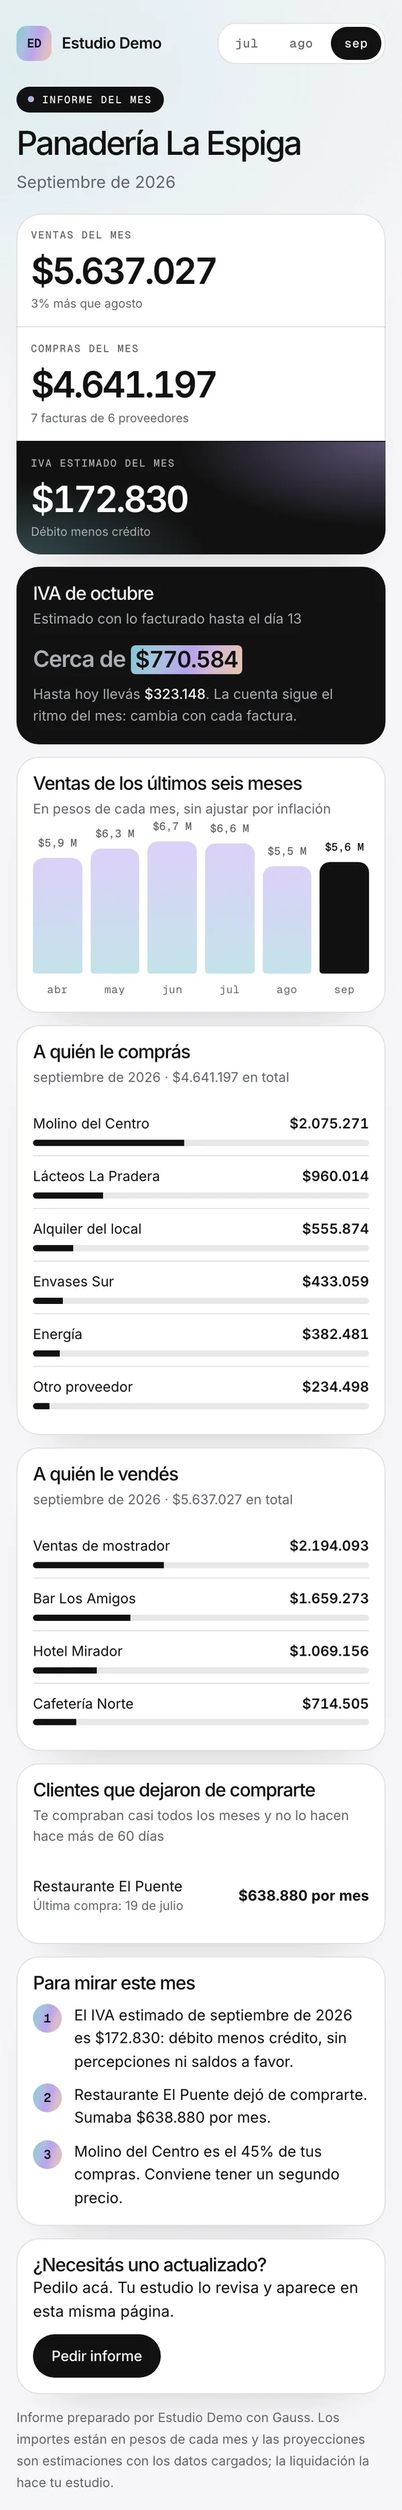
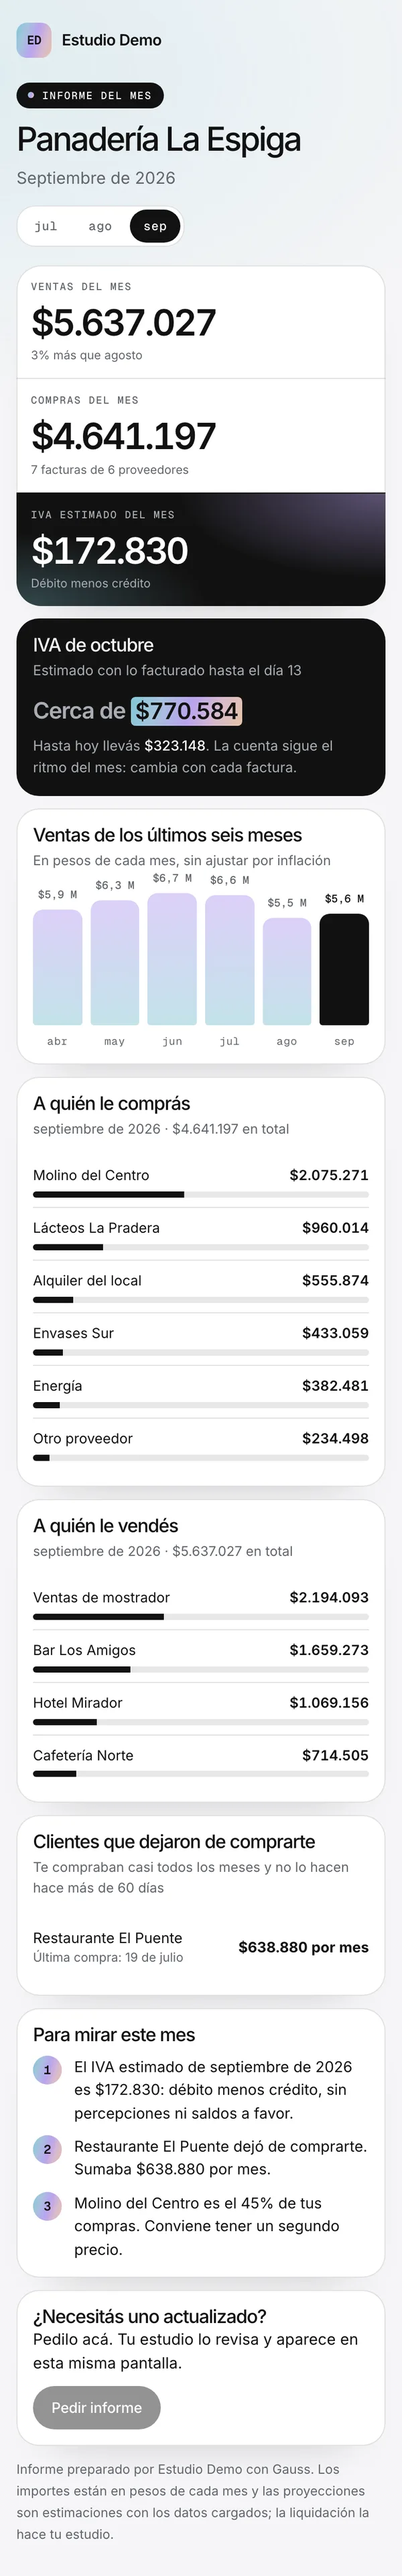
Add the clients' app and the firm's notices to the Gauss landing
The landing for accounting firms now shows the app each client of a firm
opens from their link (sign-in with a mail and a code, installable, notices
from the firm), with captures taken from the demo, and its copy follows the
sign-in that the app asks for since today.

Changed region(s): [[0.03, 0.0, 0.96, 0.9925], [0.81, 0.0, 0.96, 0.031]]

diff --git a/club/iman-unificado/experience/gauss-estudios.html b/club/iman-unificado/experience/gauss-estudios.html
@@ -158,6 +158,14 @@
 .r-wrap .sticker{position:absolute;left:50%;top:-12px;z-index:1;transform:translateX(-50%) rotate(-4deg)}
 
 /* The firm's panel: a capture of the demo's home, and what it holds */
+/* The clients' app: what the firm writes, and the phone that gets it hanging off its corner */
+.g-app{display:grid;grid-template-columns:minmax(0,1.08fr) minmax(0,1fr);align-items:center;gap:clamp(30px,6vw,90px)}
+.g-app h2{margin:18px 0 18px}
+.g-app .checks{margin:26px 0 30px}
+.g-app-vis{position:relative;padding:0 9% clamp(64px,8.4vw,116px) 0}
+.g-app-vis .sticker{position:absolute;left:18px;top:-11px;z-index:2}
+.g-app-vis .phone{position:absolute;right:0;bottom:0;z-index:1;width:min(36%,208px);padding:6px;border-radius:30px}
+.g-app-vis .phone-screen{border-radius:24px}
 .g-panel .g-head{max-width:760px;margin-bottom:clamp(24px,4vh,40px)}
 .g-shot{position:relative}
 .g-shot .sticker{position:absolute;right:22px;top:-11px;z-index:1}
@@ -241,7 +249,10 @@
   .up-drop span{display:none}
   .g-pitch{max-width:560px;margin:0 auto;padding:24px 0 8px}
   .g-strip{grid-template-columns:1fr;max-width:560px;margin:22px auto 0}
-  .g-split,.g-why,.g-rep{grid-template-columns:1fr}
+  .g-split,.g-why,.g-rep,.g-app{grid-template-columns:1fr}
+  .g-app-vis{order:2;max-width:560px;margin-top:34px;padding:0 min(7%,39px) min(34%,190px) 0}
+  .g-app-vis .sticker{top:-26px}
+  .g-app-vis .phone{width:42%}
   .g-split>header{position:static}
   .g-caps{grid-template-columns:repeat(2,minmax(0,1fr))}
   .g-feats{grid-template-columns:repeat(2,minmax(0,1fr))}
@@ -290,16 +301,16 @@
 <h1 id="hero-title"><span class="ln">Tu cartera,</span><span class="ln hl">al día.</span></h1>
 </div>
 
-<figure class="g-visual" data-g-demo aria-label="Ejemplo ilustrativo: un cliente sube sus papeles desde su link, Gauss los lee y los controla, avisa qué falta y deja el informe del mes listo para aprobar">
+<figure class="g-visual" data-g-demo aria-label="Ejemplo ilustrativo: un cliente sube sus papeles desde su app, Gauss los lee y los controla, avisa qué falta y deja el informe del mes listo para aprobar">
 <div class="phone">
 <div class="phone-screen"><div class="up">
 <div class="up-status" aria-hidden="true"><span>9:41</span><span class="up-sig"><i></i><i></i><i></i></span></div>
-<p class="up-bar" aria-hidden="true">app.gauss.iman.ar/subir</p>
+<p class="up-bar" aria-hidden="true">app.gauss.iman.ar/c</p>
 <div class="up-page" data-g-page>
 <p class="up-studio"><i aria-hidden="true">TE</i>Tu estudio</p>
 <p class="up-kick">Tus papeles</p>
 <p class="up-title">Hola, Luis.</p>
-<p class="up-notice" data-g-notice><b>Mail de tu estudio</b><span>Ya está tu informe de septiembre.</span></p>
+<p class="up-notice" data-g-notice><b>Aviso de tu estudio</b><span>Ya está tu informe de septiembre.</span></p>
 <p class="up-drop" data-g-drop><b>Sacar foto o elegir archivos</b><span>Llegan directo a tu estudio.</span></p>
 <div class="up-card">
 <p class="up-card-title" data-g-count>Llegaron 3 archivos</p>
@@ -328,7 +339,7 @@
 </div>
 
 <div class="g-pitch" data-pill-after>
-<p class="lead">Subís los papeles de tus clientes, o los suben ellos desde un link. Gauss los lee, los ordena y te avisa qué falta. Con eso arma el informe del mes de cada uno, que sale cuando lo aprobás.</p>
+<p class="lead">Subís los papeles de tus clientes, o los suben ellos desde su celular. Gauss los lee, los ordena y te avisa qué falta. Con eso arma el informe del mes de cada uno, que sale cuando lo aprobás.</p>
 <div class="actions">
 <a class="btn btn-ink" href="https://app.gauss.iman.ar/demo">Probar la demo <span class="arr" aria-hidden="true"><svg viewBox="0 0 16 16"><path d="M3 8h10M9 4l4 4-4 4" fill="none" stroke="currentColor" stroke-width="1.8" stroke-linecap="round" stroke-linejoin="round"/></svg></span></a>
 <a class="link" href="https://app.gauss.iman.ar/">Crear mi cuenta gratis ↗</a>
@@ -351,7 +362,7 @@
 <h2 id="sistema-title">Tu sistema queda como está. <span class="hl">Gauss trabaja al lado.</span></h2>
 <p class="lead">Los sistemas de estudio liquidan impuestos. Lo que pasa antes sigue siendo a mano: pedir los papeles, bajarlos del chat, cargarlos y reclamar lo que falta. Gauss se ocupa de esa parte.</p>
 <ul class="g-points">
-<li><b>Tu cliente lo hace desde el celular.</b><span>Abre su link, saca la foto o elige el PDF. Sin contraseñas ni nada que aprender.</span></li>
+<li><b>Tu cliente lo hace desde el celular.</b><span>Abre su link, entra con su mail y saca la foto o elige el PDF. Sin contraseñas ni nada que aprender.</span></li>
 <li><b>Vos no cambiás de sistema.</b><span>Seguís liquidando donde liquidás. Gauss te deja la planilla de cada cliente y cada mes, lista para abrir en Excel.</span></li>
 <li><b>El reclamo ya está escrito.</b><span>Gauss sabe qué papeles manda cada cliente por mes y te deja listo el mensaje para pedir lo que falta, con su link.</span></li>
 </ul>
@@ -383,9 +394,9 @@
 <div class="vig" aria-hidden="true"><p class="vig-line"><b>Harinas del Sur</b><small>$184.300</small></p><p class="vig-line"><b>Lácteos La Paz</b><small>$96.450</small></p><p class="vig-line"><b>Envases Río</b><small>$41.200</small></p></div></li>
 <li class="rv"><div><h3>Controla</h3><p>Cruza cada factura con los archivos de ARCA de ese mes, revisa que el extracto cierre con el saldo y suma impuestos, comisiones y retenciones por concepto.</p></div>
 <div class="vig" aria-hidden="true"><p class="vig-line best"><b>Extracto</b><small>cierra con el saldo</small></p><p class="vig-line late"><b>Factura 1182</b><small>no figura en ARCA</small></p></div></li>
-<li class="rv"><div><h3>Te avisa qué falta</h3><p>Te deja el mensaje redactado para cada cliente, con su link de carga. Lo mandás vos: por mail desde Gauss o desde tu WhatsApp.</p></div>
+<li class="rv"><div><h3>Te avisa qué falta</h3><p>Te deja el mensaje redactado para cada cliente, con su link. Lo mandás vos desde Gauss, y le llega por mail y como aviso en su app, o lo mandás desde tu WhatsApp.</p></div>
 <div class="vig" aria-hidden="true"><div class="bubble out">Luis, me falta el resumen de la tarjeta de septiembre.</div></div></li>
-<li class="rv"><div><h3>Aprobás</h3><p>El informe del mes queda listo. Lo revisás y lo aprobás: tu cliente ya lo ve en su página. Si elegís enviarlo, le llega el mail con el link, y si responde, te llega a vos.</p></div>
+<li class="rv"><div><h3>Aprobás</h3><p>El informe del mes queda listo. Lo revisás y lo aprobás: tu cliente ya lo ve en su app. Si elegís enviarlo, le llega el mail con el link, y si responde, te llega a vos.</p></div>
 <div class="vig" aria-hidden="true"><p class="vig-line"><b>Informe</b><small>septiembre · Don Luis</small></p><span class="vig-done">Enviado por mail</span></div></li>
 </ol>
 </div>
@@ -395,8 +406,8 @@
 <div class="wrap g-rep">
 <div class="rv">
 <p class="kick">El informe</p>
-<h2 id="informe-title">Lo aprobás y tu cliente <span class="hl">lo ve en una web.</span></h2>
-<p class="lead">Cada cliente tiene su página con el nombre de tu estudio. Entra desde el celular y ve los informes que aprobaste, mes por mes; cuando le mandás uno, le llega el link por mail. Si necesita uno actualizado, lo pide ahí y te llega el pedido.</p>
+<h2 id="informe-title">Lo aprobás y tu cliente <span class="hl">lo ve en su celular.</span></h2>
+<p class="lead">Cada cliente entra a su app, con el nombre de tu estudio, y ve los informes que aprobaste, mes por mes. Cuando le mandás uno, le llega el mail con el link. Si necesita uno actualizado, lo pide ahí y te llega el pedido.</p>
 <ul class="checks">
 <li>Ventas y compras del mes, y las ventas de los últimos seis meses.</li>
 <li>El IVA estimado del mes en curso, si ya cargaste sus comprobantes.</li>
@@ -408,7 +419,33 @@
 </div>
 <div class="r-wrap rv">
 <span class="sticker">captura de la demo · datos inventados</span>
-<div class="phone"><div class="phone-screen"><img class="page-scroll slow" style="--end:-66.13%" src="/assets/experience/shots/gauss-informe-mobile.webp" width="600" height="3740" alt="El informe de septiembre de un cliente de la demo, visto en el celular: ventas, compras e IVA estimado del mes, el IVA del mes en curso, las ventas de los últimos seis meses, a quién le compra y a quién le vende, un cliente que dejó de comprarle y el botón para pedir un informe actualizado" loading="lazy"></div></div>
+<div class="phone"><div class="phone-screen"><img class="page-scroll slow" style="--end:-67%" src="/assets/experience/shots/gauss-informe-mobile.webp" width="600" height="3838" alt="El informe de septiembre de un cliente de la demo, visto en el celular: ventas, compras e IVA estimado del mes, el IVA del mes en curso, las ventas de los últimos seis meses, a quién le compra y a quién le vende, un cliente que dejó de comprarle y el botón para pedir un informe actualizado" loading="lazy"></div></div>
+</div>
+</div>
+</section>
+
+<section class="sec" id="app" aria-labelledby="app-title">
+<div class="wrap g-app">
+<div class="g-app-vis rv">
+<span class="sticker">capturas de la demo · datos inventados</span>
+<div class="browser">
+<div class="browser-bar" aria-hidden="true"><i></i><i></i><i></i><span>app.gauss.iman.ar/demo/avisos</span></div>
+<div class="browser-screen"><img class="page-scroll slow" style="--end:-29.52%" src="/assets/experience/shots/gauss-avisos-desktop.webp" width="1800" height="1660" alt="La sección Avisos de Gauss en la demo: 9 clientes reciben los avisos en la app y 5 por mail, el formulario para escribir un aviso nuevo y los avisos ya enviados, con cuántos clientes vieron cada uno" loading="lazy"></div>
+</div>
+<div class="phone"><div class="phone-screen"><img src="/assets/experience/shots/gauss-app-mobile.webp" width="600" height="1266" alt="La app de un cliente de la demo en el celular: el nombre del estudio, un aviso nuevo sobre el cierre de septiembre, el botón para sacar una foto o elegir archivos, los papeles que le pide el estudio y las secciones Papeles, Informes y Avisos" loading="lazy"></div></div>
+</div>
+<div class="rv">
+<p class="kick">La app de tus clientes</p>
+<h2 id="app-title">Un aviso tuyo, <span class="hl">en su celular.</span></h2>
+<p class="lead">El link que le mandás a cada cliente abre una app con el nombre de tu estudio. Tu cliente entra con su mail, sube sus papeles, ve sus informes y recibe tus avisos. Si quiere, la instala en la pantalla del celular desde el navegador, sin pasar por ninguna tienda.</p>
+<ul class="checks">
+<li>Entra con su mail y un código, sin contraseña. Ves quién entró y le quitás el acceso cuando quieras.</li>
+<li>Con el mail que le cargaste ve todo. Con otro mail solo sube papeles, hasta que lo habilitás.</li>
+<li>Escribís el aviso una vez y elegís a quién: a toda la cartera o a algunos clientes.</li>
+<li>Al que activó los avisos le llega la notificación al celular; al que no, un mail. Antes de mandarlo ves a quién no hay cómo avisarle, y después quién lo vio en su app.</li>
+<li>Los pedidos de papeles, los informes y los recordatorios de honorarios que salen de Gauss también le aparecen ahí.</li>
+</ul>
+<div class="actions"><a class="btn btn-ink" href="https://app.gauss.iman.ar/demo/avisos">Verlo en la demo <span class="arr" aria-hidden="true"><svg viewBox="0 0 16 16"><path d="M3 8h10M9 4l4 4-4 4" fill="none" stroke="currentColor" stroke-width="1.8" stroke-linecap="round" stroke-linejoin="round"/></svg></span></a></div>
 </div>
 </div>
 </section>
@@ -446,7 +483,7 @@
 </header>
 <ul class="g-caps rv">
 <li><b>No presenta nada.</b><span>No liquida ni presenta declaraciones. Eso sigue en tu sistema y con tu firma.</span></li>
-<li><b>No manda nada por su cuenta.</b><span>Los informes salen cuando los aprobás y los reclamos cuando los mandás. El recordatorio automático de honorarios viene apagado.</span></li>
+<li><b>No manda nada por su cuenta.</b><span>Los informes salen cuando los aprobás, y los reclamos y los avisos cuando los mandás. El recordatorio automático de honorarios viene apagado.</span></li>
 <li><b>No entra a tu WhatsApp.</b><span>No se conecta a tu teléfono ni lee tus chats. Trabaja con lo que subís vos o suben tus clientes.</span></li>
 <li><b>No pide tu clave fiscal.</b><span>Trabaja con los archivos de comprobantes que ya bajás de ARCA.</span></li>
 <li><b>Te muestra lo dudoso.</b><span>Lo que no se llega a leer o no cierra queda para revisar. Las facturas las corregís a mano; un extracto lo volvés a leer o lo das por bueno.</span></li>
@@ -466,7 +503,7 @@
 <ul class="g-needs">
 <li><div><b>Tu lista de clientes</b><span>La pegás desde tu Excel: nombre, CUIT, tipo y mail. Después marcás qué papeles manda cada uno por mes.</span></div></li>
 <li><div><b>Los comprobantes de ARCA</b><span>Los archivos de emitidos y recibidos de Mis Comprobantes, tal como los bajás. De ahí sale la base de cada informe.</span></div></li>
-<li><div><b>El link de cada cliente</b><span>Se lo mandás una vez. Desde ahí sube sus papeles todos los meses.</span></div></li>
+<li><div><b>El link de cada cliente</b><span>Se lo mandás una vez. Entra con su mail y desde ahí sube sus papeles todos los meses.</span></div></li>
 </ul>
 <div class="g-where">
 <p><b>Dónde rinde primero:</b> los clientes que mandan todo por chat, tarde y de a pedazos.</p>
@@ -484,12 +521,13 @@
 </header>
 <div class="g-faq rv">
 <details><summary>¿Reemplaza mi sistema contable?</summary><p>No. Seguís liquidando donde liquidás hoy. Gauss se ocupa de lo anterior: recibir, leer, ordenar y controlar los papeles, y te deja la planilla de cada cliente y cada mes para abrir en Excel.</p></details>
-<details><summary>¿Mis clientes tienen que instalar algo?</summary><p>No. Abren su link desde el celular y suben la foto o el PDF. El informe lo ven en una página web.</p></details>
+<details><summary>¿Mis clientes tienen que instalar algo?</summary><p>No hace falta. Abren su link desde el celular, entran con su mail y suben la foto o el PDF; ahí mismo ven sus informes. Si quieren, instalan la app desde el navegador y activan los avisos para que les lleguen al celular. En iPhone, los avisos al celular solo llegan con la app instalada. Al que no los activa, tus avisos le llegan por mail.</p></details>
+<details><summary>¿Cómo le llegan mis avisos a un cliente?</summary><p>Si activó los avisos en su celular, cada aviso le llega ahí como notificación; si en un día no lo vio en la app, Gauss le manda ese mismo aviso por mail. Si no los activó, le llega al mail que tenés cargado para ese cliente. En el texto de un aviso no se pueden poner links: tu cliente abre lo que necesita desde la app. Desde cada mail puede pedir que no le lleguen más por esa vía.</p></details>
 <details><summary>¿Qué archivos lee?</summary><p>Los de Mis Comprobantes de ARCA (CSV, Excel o ZIP), fotos y PDF de facturas y tickets, y extractos de banco y resúmenes de tarjeta. Lo que no se llega a leer queda marcado para que lo mires.</p></details>
 <details><summary>¿Necesita mi clave fiscal?</summary><p>No. Gauss trabaja con los archivos de comprobantes que ya bajás de ARCA.</p></details>
-<details><summary>¿Puede mandarle algo a un cliente sin que yo lo vea?</summary><p>No. Los informes salen cuando los aprobás y los reclamos de papeles cuando los mandás. El recordatorio automático de honorarios viene apagado: lo prendés vos si lo querés.</p></details>
+<details><summary>¿Puede mandarle algo a un cliente sin que yo lo vea?</summary><p>No. Los informes salen cuando los aprobás, y los reclamos de papeles y los avisos cuando los mandás. El recordatorio automático de honorarios viene apagado: lo prendés vos si lo querés.</p></details>
 <details><summary>¿Se conecta con mi WhatsApp?</summary><p>No. Gauss no entra a tu teléfono ni lee tus chats. Si querés reclamar un papel por WhatsApp, te deja el mensaje escrito y lo mandás vos, desde tu número.</p></details>
-<details><summary>¿Qué pasa con el secreto profesional?</summary><p>Cada estudio ve solo lo suyo y los datos se usan únicamente para armar tus fichas e informes. Las fotos y los PDF se leen con un servicio de inteligencia artificial: está detallado en la <a class="link" href="https://app.gauss.iman.ar/privacidad">página de privacidad</a>. Si el link de un cliente se filtra, generás uno nuevo y el anterior deja de andar.</p></details>
+<details><summary>¿Qué pasa con el secreto profesional?</summary><p>Cada estudio ve solo lo suyo y los datos se usan únicamente para armar tus fichas e informes. Las fotos y los PDF se leen con un servicio de inteligencia artificial: está detallado en la <a class="link" href="https://app.gauss.iman.ar/privacidad">página de privacidad</a>. Para entrar con el link de un cliente hay que poner un mail y el código que llega ahí, y vos ves quién entró. Solo quien entra con el mail que cargaste para ese cliente ve sus informes y tus avisos; cualquier otro solo puede subir papeles, hasta que lo habilites. Le quitás el acceso a quien quieras y, si el link se filtró, generás uno nuevo.</p></details>
 <details><summary>¿Qué vencimientos muestra?</summary><p>IVA y monotributo de cada cliente, con el calendario general de ARCA y los feriados nacionales. Para el IVA hace falta el CUIT cargado. No contempla prórrogas ni días no laborables, y Gauss no presenta ni paga nada: marcás lo que ya hiciste.</p></details>
 <details><summary>¿Puede entrar mi equipo?</summary><p>Sí. Sumás a cada persona con su mail y entra con el código que le llega ahí, sin contraseña.</p></details>
 <details><summary>¿Puedo probarlo sin registrarme?</summary><p>Sí. La <a class="link" href="https://app.gauss.iman.ar/demo">demo</a> abre un estudio de ejemplo con 14 clientes y datos inventados. Tocás lo que quieras: es una copia solo tuya y se borra sola. Ahí no se leen fotos ni PDF nuevos y no sale ningún mail: para eso está tu cuenta.</p></details>
@@ -523,7 +561,7 @@
   var reduce=window.matchMedia('(prefers-reduced-motion: reduce)').matches;
 
   /* Demo player: the static markup is the finished month; with motion it is replayed step by step,
-     the client's files coming in from their link while the month's file fills in on the board. */
+     the client's files coming in from their app while the month's file fills in on the board. */
   var demo=document.querySelector('[data-g-demo]');
   if(!demo||reduce)return;
   var page=demo.querySelector('[data-g-page]'),files=[].slice.call(demo.querySelectorAll('.up-file'));
@@ -543,7 +581,7 @@
     var c=r.querySelector('[data-chip]');c.textContent=o.chip;c.className='g-chip'+(o.chipCls?' '+o.chipCls:'');
   };
   var status=function(text,done){footText.textContent=text;foot.classList.toggle('is-done',!!done)};
-  /* A mail from the firm shows up on the client's phone. */
+  /* What the firm sends shows up in the client's app as a notice. */
   var say=function(text){noticeText.textContent=text;notice.classList.add('is-on');page.scrollTo({top:0,behavior:'smooth'})};
   var hush=function(){notice.classList.remove('is-on')};
   /* The client picks a file: the box is pressed and the file shows as received. */

diff --git a/club/iman-unificado/experience/gauss-informe.html b/club/iman-unificado/experience/gauss-informe.html
@@ -7,7 +7,7 @@
 <meta name="color-scheme" content="light">
 <title>Informe de ejemplo · Gauss para estudios contables | IMÁN</title>
 <meta name="description" content="Así ve el informe del mes el cliente de un estudio contable que trabaja con Gauss: ventas, compras, IVA estimado, a quién le compra y le vende, y clientes que dejaron de comprar. Ejemplo con datos ficticios.">
-<meta property="og:title" content="Gauss · El informe del mes, en una web">
+<meta property="og:title" content="Gauss · El informe del mes, como lo ve tu cliente">
 <meta property="og:description" content="Así ve el informe del mes el cliente de un estudio contable que trabaja con Gauss. Ejemplo con datos ficticios.">
 <meta property="og:type" content="website">
 <meta property="og:locale" content="es_AR">
@@ -16,7 +16,7 @@
 <link rel="stylesheet" href="/assets/experience/v3.css">
 <style>
 /* The month's report as the firm's client sees it on a web page. A demo: every figure here is fictional,
-   and the sections and wording follow the real page of the app (web/vistas/InformeVista.tsx and Publico.tsx there).
+   and the sections and wording follow the real screen of the client's app (web/vistas/InformeVista.tsx and Portal.tsx there).
    The firm's name is a placeholder ("Tu estudio"); the real page also lets the client pick the month. */
 body{background:var(--paper-2)}
 .d-bar{display:flex;flex-wrap:wrap;align-items:center;justify-content:center;gap:4px 14px;padding:9px var(--gutter);background:var(--ink);color:#fff;font:500 10.5px/1.5 var(--mono);letter-spacing:.06em;text-align:center}
@@ -80,7 +80,7 @@ body{background:var(--paper-2)}
 </head>
 <body>
 <a class="skip" href="#contenido">Saltar al contenido</a>
-<p class="d-bar"><span>Ejemplo · datos inventados</span>Así ve el informe el cliente de tu estudio.<a href="../">Volver a Gauss</a><a href="https://app.gauss.iman.ar/demo">Abrir la demo de la app</a></p>
+<p class="d-bar"><span>Ejemplo · datos inventados</span>Así ve el informe el cliente de tu estudio.<a href="../">Volver a Gauss</a><a href="https://app.gauss.iman.ar/demo">Abrir la demo</a></p>
 
 <main class="rp" id="contenido">
 <div class="rp-top">
@@ -169,7 +169,7 @@ body{background:var(--paper-2)}
 <section class="card mt ask" aria-labelledby="pedir-title">
 <div>
 <h2 id="pedir-title" data-ask-title tabindex="-1">¿Necesitás uno actualizado?</h2>
-<p data-ask-text>Pedilo acá. Tu estudio lo revisa y aparece en esta misma página.</p>
+<p data-ask-text>Pedilo acá. Tu estudio lo revisa y aparece en esta misma pantalla.</p>
 </div>
 <button class="btn btn-ink" type="button" data-ask>Pedir informe <span class="arr" aria-hidden="true"><svg viewBox="0 0 16 16"><path d="M3 8h10M9 4l4 4-4 4" fill="none" stroke="currentColor" stroke-width="1.8" stroke-linecap="round" stroke-linejoin="round"/></svg></span></button>
 <p class="ask-status" role="status" aria-live="polite" data-ask-status hidden>Esto es un ejemplo: no se envió nada.</p>
@@ -184,7 +184,7 @@ body{background:var(--paper-2)}
   var ask=document.querySelector('[data-ask]');
   if(ask)ask.addEventListener('click',function(){
     var titulo=document.querySelector('[data-ask-title]');titulo.textContent='Pedido enviado';
-    document.querySelector('[data-ask-text]').textContent='Tu estudio ya lo sabe. Cuando lo apruebe, lo ves en esta misma página.';
+    document.querySelector('[data-ask-text]').textContent='Tu estudio ya lo sabe. Cuando lo apruebe, te avisamos y lo ves acá.';
     document.querySelector('[data-ask-status]').hidden=false;ask.remove();titulo.focus();
   });
 })();

diff --git a/club/iman-unificado/README.md b/club/iman-unificado/README.md
@@ -2,9 +2,9 @@
 
 ## Gauss para estudios contables — 13 de octubre de 2026
 
-Landing de Gauss para estudios contables, publicada en **https://gauss.iman.ar/**, y un informe de ejemplo (`/informe/`): copia estática de la página donde el cliente del estudio ve y pide su informe en la app (`app.gauss.iman.ar`). La landing de compras (`experience/gauss.html`, `/gauss/`) no cambia.
+Landing de Gauss para estudios contables, publicada en **https://gauss.iman.ar/**, y un informe de ejemplo (`/informe/`): copia estática de la pantalla donde el cliente del estudio ve y pide su informe en su app (`app.gauss.iman.ar`). La landing de compras (`experience/gauss.html`, `/gauss/`) no cambia.
 
-- `experience/gauss-estudios.html`: la landing. Describe la app real (`app.gauss.iman.ar`, código en `club/gauss-app/`): los papeles entran por carga de archivos, no por WhatsApp. La demo del hero es un cliente subiendo papeles desde su link mientras se llena la ficha del mes; el panel y el informe se muestran con capturas reales de la demo (`experience/assets/shots/gauss-desktop.webp` y `gauss-informe-mobile.webp`, recortadas a 1800×2582 y 600×3740 de los PNG que `node scripts/capture-demos.mjs gauss` deja en `club/tmp/demo-captures/`; si cambia el alto hay que recalcular `--end` en la landing).
+- `experience/gauss-estudios.html`: la landing. Describe la app real (`app.gauss.iman.ar`, código en `club/gauss-app/`): los papeles entran por carga de archivos, no por WhatsApp, y cada cliente del estudio entra a su app (`/c/`) con su mail. La demo del hero es un cliente subiendo papeles desde su app mientras se llena la ficha del mes. El informe, la app del cliente, los avisos y el panel se muestran con capturas reales de la demo en `experience/assets/shots/`: `gauss-informe-mobile.webp` (600×3838), `gauss-app-mobile.webp` (600×1266), `gauss-avisos-desktop.webp` (1800×1660) y `gauss-desktop.webp` (1800×2582). Salen de los PNG que `node scripts/capture-demos.mjs gauss` deja en `club/tmp/demo-captures/` (la app del cliente se captura desde la vista previa de la demo, `/demo/clientes/{id}/app`), recortados y pasados a WebP con `magick` y `cwebp -q 82`; si cambia el alto hay que recalcular `--end` en la landing (marco de celular: `-(alto - ancho×19/9)/alto`; marco de navegador: `-(alto - ancho×0,65)/alto`).
 - `experience/gauss-informe.html`: el informe de ejemplo, con las mismas secciones y textos que el informe real de la app y el botón «Pedir informe». Es una demo: los datos son ficticios y el pedido no se envía a ningún lado.
 - `build_dark` las emite a `public/gauss/estudios/` y `public/gauss/estudios/informe/`, sin listar (`noindex`, fuera del sitemap y de `docs/pages.json`), con canonical a `gauss.iman.ar`.
 - `server/worker.mjs` (`GAUSS_PAGES`): en `gauss.iman.ar`, `/` y `/informe/` sirven esas dos páginas, `/assets/` pasa tal cual y cualquier otra ruta va a `www.iman.ar`. `gauss.iman.ar` es un dominio más del proyecto en Cloudflare Pages.

diff --git a/club/iman-unificado/docs/seo/audit.md b/club/iman-unificado/docs/seo/audit.md
@@ -2,7 +2,7 @@
 
 HTML local; no verifica HTTP, rendimiento, indexación ni ranking reales.
 
-Generada: 2026-10-13T17:40:34.766260+00:00
+Generada: 2026-10-13T19:10:44.857951+00:00
 
 32 HTML · 22 URLs en sitemap · 0 errores · 0 advertencias · 0 observaciones.
 
